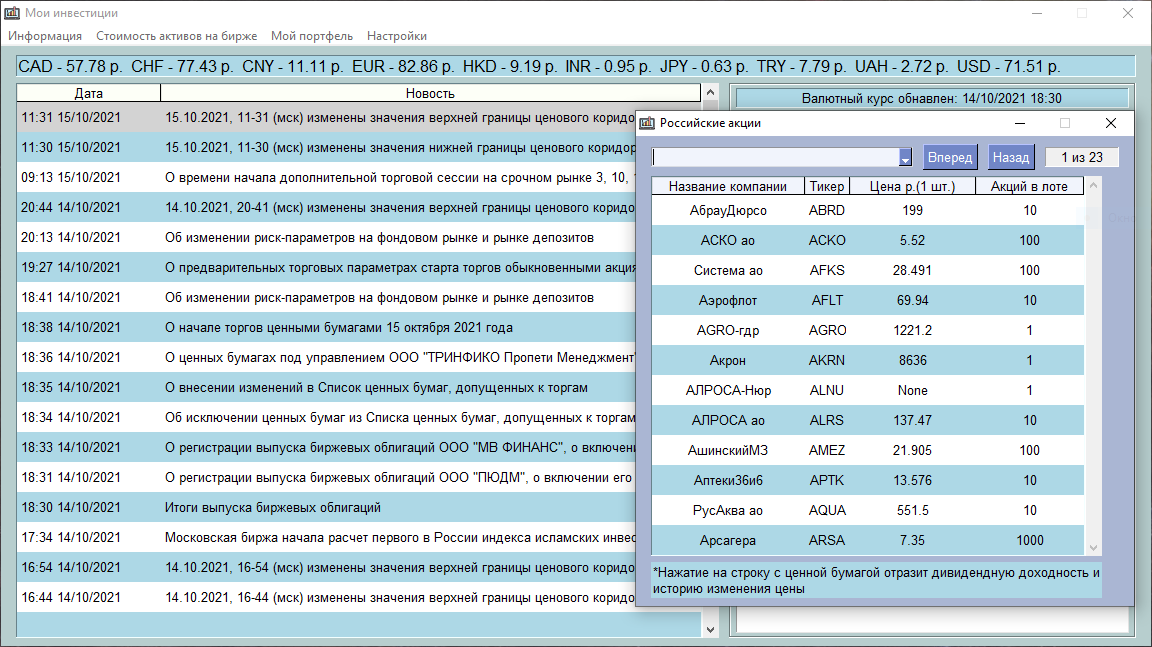
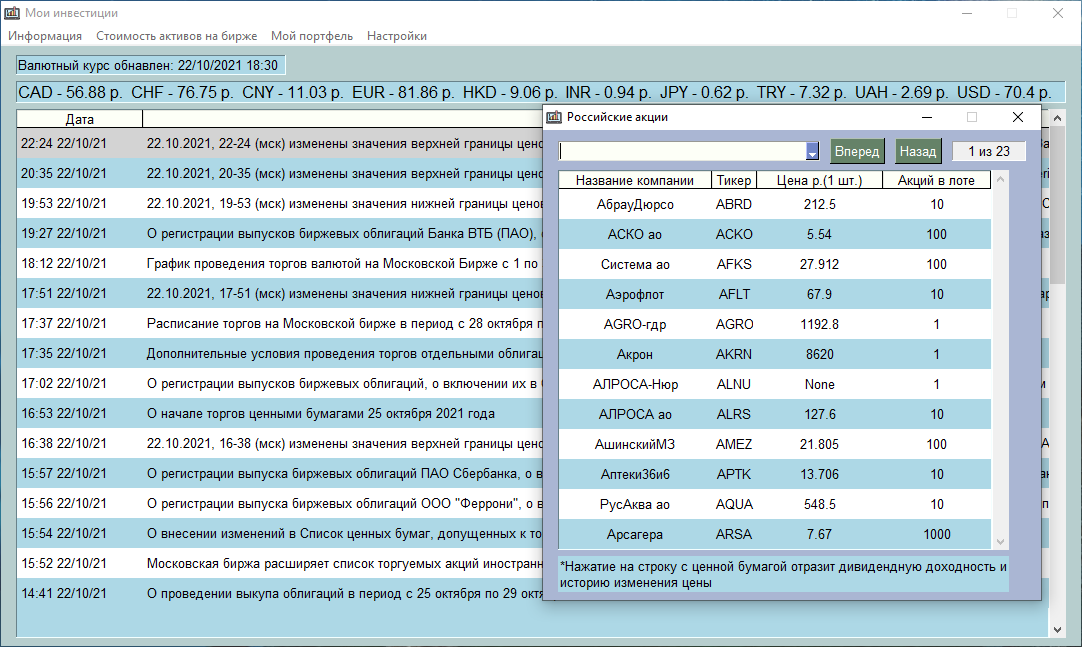
add webview

diff --git a/GUI.py b/GUI.py
@@ -5,8 +5,10 @@ import api_mcx
 from Parsing import *
 from XMLRefact import *
 import PySimpleGUI as sg
+import webview
 
-sizeX = 1150
+
+sizeX = 1080
 sizeY = 600
 
 
@@ -21,27 +23,15 @@ def main_wind():
     news_list = api_mcx.Handler.get_list_news()
     str_date, str_value = api_mcx.Handler.get_securities_rates()
     layout = [[sg.Menu(menu_def, tearoff=False)],
-              [sg.Input(size=(160, 1), key='out_value', readonly=True, justification='left', font=("Any", 12),
+              [sg.Input(size=(38, 1), key='out_date', readonly=True, justification='left',
+                         default_text=str_date, disabled_readonly_background_color='lightblue')],
+              [sg.Input(size=(117, 1), key='out_value', readonly=True, justification='left', font=("Any", 12),
                         default_text=str_value, disabled_readonly_background_color='lightblue')],
-              [sg.Table(values=news_list, headings=['Дата', 'Новость'], def_col_width=12, max_col_width=60,
-                        background_color='lightblue',
-                        text_color='Black',
-                        auto_size_columns=True,
-                        justification='left',
-                        num_rows=20,
-                        alternating_row_color='white',
-                        key='-TABLE_NEWS-',
-                        selected_row_colors=('Black', 'lightgray'),
-                        enable_events=True,
-                        row_height=30),
-               sg.Frame('', [
-                   [sg.Input(size=(60, 1), key='out_date', readonly=True, justification='center',
-                             default_text=str_date,
-                             disabled_readonly_background_color='lightblue')],
-                   [sg.Output(size=(60, 35), key='out', background_color='white')]
-               ]
-                        )
-               ]
+              [sg.Table(values=news_list, headings=['Дата', 'Новость'],
+                        def_col_width=12, max_col_width=105,
+                        background_color='lightblue', text_color='Black', auto_size_columns=True,
+                        justification='left', num_rows=20, alternating_row_color='white', key='-TABLE_NEWS-',
+                        selected_row_colors=('Black', 'lightgray'), enable_events=True, row_height=30)]
               ]
     window = sg.Window('Мои инвестиции', layout, size=(sizeX, sizeY))
     while True:
@@ -53,13 +43,15 @@ def main_wind():
 
 
 def func_menu(event, window, values, news_list):
-    str_date, str_value = api_mcx.Handler.get_securities_rates()
-    window['out_date'].update(str_date)
-    window['out_value'].update(str_value)
-    window['out'].update("")
+    if event not in (sg.WIN_CLOSED, 'Quit'):
+        str_date, str_value = api_mcx.Handler.get_securities_rates()
+        window['out_date'].update(str_date)
+        window['out_value'].update(str_value)
     if event == '-TABLE_NEWS-':
         id_news = news_list[values['-TABLE_NEWS-'][0]][2]
-        window['out'].update(redact(api_mcx.Handler.get_newtext_id(id_news)))
+        webview.create_window('Новости Московской биржи', url='https://www.moex.com/n' + str(id_news) + '/?nt=101',
+                              width=sizeX, height=sizeY)
+        webview.start()
     ################################################
     if event == "Российские акции":
         list_data, list_columns, info = api_mcx.Handler.get_stocks_15m_ago('ru')
@@ -242,15 +234,15 @@ def wind_portfolio():
 
     list_colors_stocks = []
     for i in range(0, len(list_values_stocks)):
-        if list_values_stocks[i][6] > 0:
+        if type(list_values_stocks[i][6]) is float and list_values_stocks[i][6] > 0:
             list_colors_stocks.append([i, "green", "lightblue" if i % 2 else "white"])
     list_colors_bonds = []
     for i in range(0, len(list_values_bonds)):
-        if list_values_bonds[i][5] > 0:
+        if type(list_values_bonds[i][5]) is float and list_values_bonds[i][5] > 0:
             list_colors_bonds.append([i, "green", "lightblue" if i % 2 else "white"])
     list_colors_pies = []
     for i in range(0, len(list_values_pies)):
-        if list_values_pies[i][4] > 0:
+        if type(list_values_pies[i][4]) is float and list_values_pies[i][4] > 0:
             list_colors_pies.append([i, "green", "lightblue" if i % 2 else "white"])
 
     menu_def = [['&Общие диаграммы', ['&Круговая диаграмма', '&Столбчатая диаграмма',

diff --git a/Binding.py b/Binding.py
@@ -263,17 +263,19 @@ def report_invest():
     list_headers = ['Ценная бумага', 'Инвестированно', 'Оценка активов сейчас', 'Изменение в р.', 'Изменение в %']
     list_data = []
     # Акции------------------------------------------------------------------------
-    invest = 0
-    price_now = 0
-    invest_us = 0
-    price_now_us = 0
+    invest = 0.0
+    price_now = 0.0
+    invest_us = 0.0
+    price_now_us = 0.0
     for i in range(0, len(list_values_stocks[0])):
         if list_values_stocks[0][i][13] != "США":
             invest += list_values_stocks[0][i][8]
-            price_now += list_values_stocks[0][i][8] + list_values_stocks[0][i][6]
+            if type(list_values_stocks[0][i][6]) is float:
+                price_now += list_values_stocks[0][i][8] + list_values_stocks[0][i][6]
         else:
             invest_us += list_values_stocks[0][i][8]
-            price_now_us += list_values_stocks[0][i][8] + list_values_stocks[0][i][6]
+            if type(list_values_stocks[0][i][6]) is float:
+                price_now_us += list_values_stocks[0][i][8] + list_values_stocks[0][i][6]
     invest = round(invest, 2)
     price_now = round(price_now, 2)
     list_data.append(['Российские акции', invest, price_now,
@@ -283,28 +285,30 @@ def report_invest():
     list_data.append(['Зарубежные акции', invest_us, price_now_us,
                       round(price_now_us - invest_us, 2), str(round(price_now_us * 100 / invest_us - 100, 2)) + " %"])
     # Облигации------------------------------------------------------------------------
-    invest = 0
-    price_now = 0
+    invest = 0.0
+    price_now = 0.0
     for i in range(0, len(list_values_bonds[0])):
         invest += list_values_bonds[0][i][6]
-        price_now += list_values_bonds[0][i][6] + list_values_bonds[0][i][5]
+        if type(list_values_bonds[0][i][5]) is float:
+            price_now += list_values_bonds[0][i][6] + list_values_bonds[0][i][5]
     invest = round(invest, 2)
     price_now = round(price_now, 2)
     list_data.append(['Облигации', invest, price_now, round(price_now - invest, 2),
                       str(round(price_now * 100 / invest - 100, 2)) + " %"])
     # ETF фонды-------------------------------------------------------------------------
-    invest = 0
-    price_now = 0
+    invest = 0.0
+    price_now = 0.0
     for i in range(0, len(list_values_pies[0])):
         invest += list_values_pies[0][i][5]
-        price_now += list_values_pies[0][i][5] + list_values_pies[0][i][4]
+        if type(list_values_pies[0][i][4]) is float:
+            price_now += list_values_pies[0][i][5] + list_values_pies[0][i][4]
     invest = round(invest, 2)
     price_now = round(price_now, 2)
     list_data.append(['ETF фонды', invest, price_now, round(price_now - invest, 2),
                       str(round(price_now * 100 / invest - 100, 2)) + " %"])
 
-    invest = 0
-    price_now = 0
+    invest = 0.0
+    price_now = 0.0
     for i in range(0, len(list_data)):
         invest += list_data[i][1]
         price_now += list_data[i][2]

diff --git a/api_mcx/Handler.py b/api_mcx/Handler.py
@@ -15,18 +15,18 @@ def get_list_news():
     list_news = []
     for news in get_news()['sitenews']['data']:
         d = datetime.strptime(news[3], '%Y-%m-%d %H:%M:%S')
-        list_news.append([d.strftime("%H:%M %d/%m/%Y"), news[2], news[0]])
+        list_news.append([d.strftime("%H:%M %d/%m/%y"), news[2], news[0]])
     return list_news
 
 
 # новость по id
-def get_newtext_id(id):
-    news = get_news_id(id)['content']['data'][0][3]
-    soup = BeautifulSoup(news, "html.parser")
-    for elm in soup(["script", "style"]):
-        elm.extract()
-    text = soup.get_text()
-    return text
+# def get_newtext_id(id):
+#     news = get_news_id(id)['content']['data'][0][3]
+#     soup = BeautifulSoup(news, "html.parser")
+#     for elm in soup(["script", "style"]):
+#         elm.extract()
+#     text = soup.get_text()
+#     return text
 
 
 # Получить акции
@@ -171,7 +171,7 @@ def get_history_stocks(tiker, info):
     res_price_history = []
     last_date = now + timedelta(days=1)
 
-    for i in range(0, 3):
+    for i in range(0, 5):
         list_data = []
         list_price_history = []
         if info == "rus":
@@ -179,7 +179,7 @@ def get_history_stocks(tiker, info):
         else:
             response = get_history_unrus_prices_api(tiker, date)
         for el in response['history']['data']:
-            if el[1] is not None:
+            if el[1] is not None and el[2] != "TQBD":
                 el[0] = datetime.strptime(el[0], '%Y-%m-%d')
                 if last_date > el[0]:
                     list_data.append(el[0])

diff --git a/api_mcx/API_response.py b/api_mcx/API_response.py
@@ -10,10 +10,10 @@ def get_news():
 
 
 # для новостей сайта указать id
-def get_news_id(news_id):
-    api_result = requests.get("http://iss.moex.com/iss/sitenews/" + str(news_id) + ".json")
-    api_response = api_result.json()
-    return api_response
+# def get_news_id(news_id):
+#     api_result = requests.get("http://iss.moex.com/iss/sitenews/" + str(news_id) + ".json")
+#     api_response = api_result.json()
+#     return api_response
 
 
 # Получить российские акции: тикер | цена за штуку
@@ -119,7 +119,7 @@ def get_all_nkd_api(tiker):
 def get_history_rus_prices_api(tiker, date):
     api_result = requests.get(
         "https://iss.moex.com/iss/history/engines/stock/markets/shares/securities/" + tiker +
-        "/securities.json?iss.meta=off&history.columns=TRADEDATE,CLOSE&from="+date)
+        "/securities.json?iss.meta=off&history.columns=TRADEDATE,CLOSE,BOARDID&from="+date)
     api_response = api_result.json()
     return api_response
 
@@ -128,6 +128,6 @@ def get_history_rus_prices_api(tiker, date):
 def get_history_unrus_prices_api(tiker, date):
     api_result = requests.get(
         "https://iss.moex.com/iss/history/engines/stock/markets/foreignshares/securities/" + tiker +
-        "/securities.json?iss.meta=off&history.columns=TRADEDATE,CLOSE&from="+date+"")
+        "/securities.json?iss.meta=off&history.columns=TRADEDATE,CLOSE,BOARDID&from="+date+"")
     api_response = api_result.json()
     return api_response

diff --git a/tools/Bonds.py b/tools/Bonds.py
@@ -91,8 +91,8 @@ def get_price(tiker):
 
 
 def get_dif(price, count, total):
-    if price == '' or count == '' or total == '':
-        return ""
+    if price is None or count == '' or total == '':
+        return "-"
     else:
         return round(price * count - total, 2)
 

diff --git a/tools/Stocks.py b/tools/Stocks.py
@@ -115,7 +115,7 @@ def get_price(tiker):
 
 
 def get_dif(price, count, total):
-    if price == '' or count == '' or total == '':
-        return ""
+    if price is None or count == '' or total == '':
+        return '-'
     else:
         return round(price * count - total, 2)

diff --git a/tools/Pie.py b/tools/Pie.py
@@ -78,8 +78,8 @@ def get_name(tiker):
 
 
 def get_dif(price, count, total):
-    if price == '' or count == '' or total == '':
-        return ""
+    if price is None or count == '' or total == '':
+        return "-"
     else:
         return round(price * count - total, 2)
 
